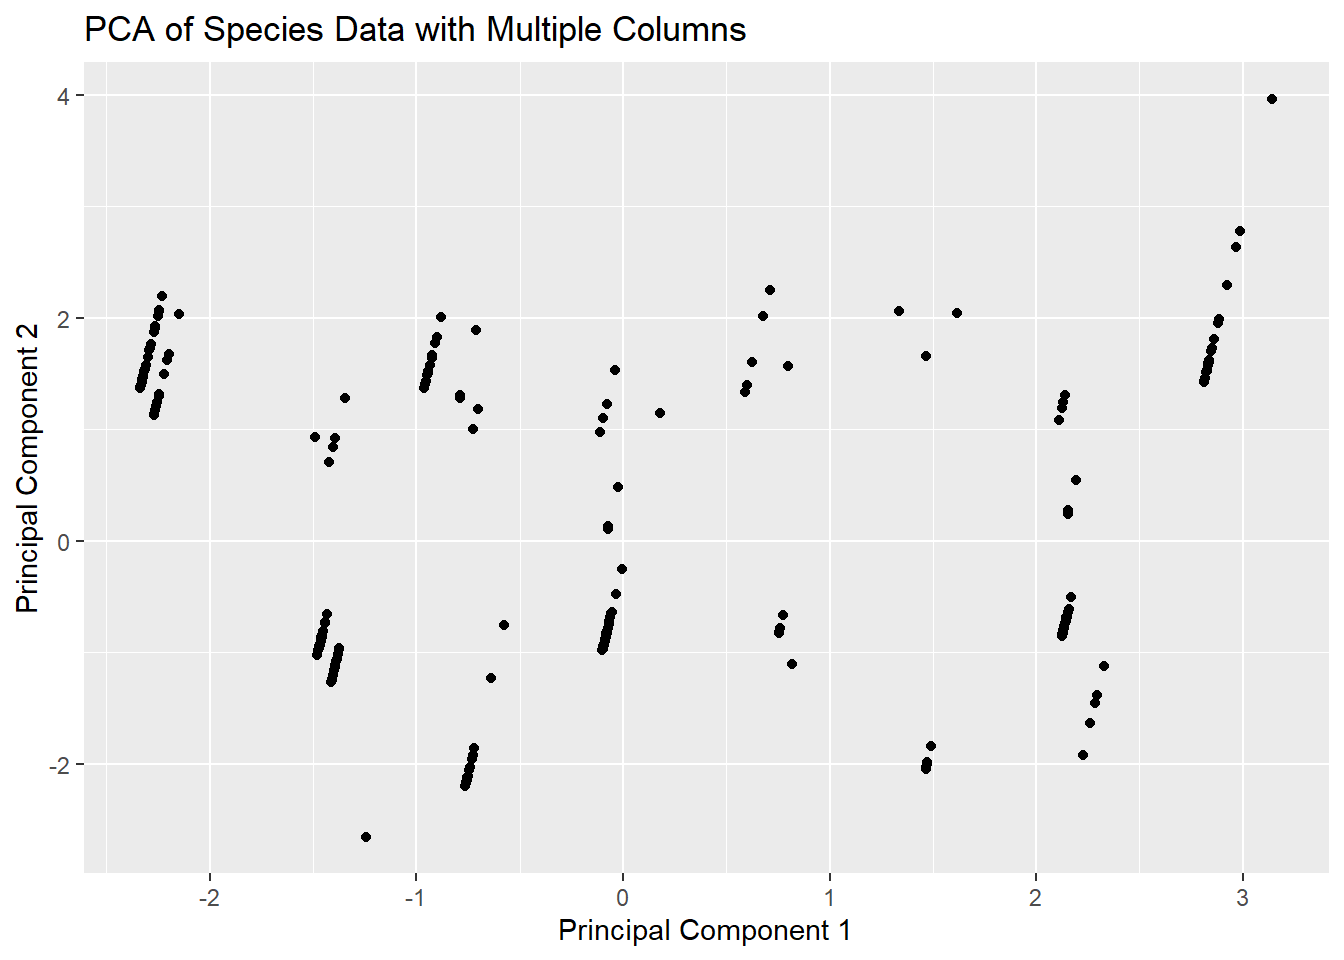
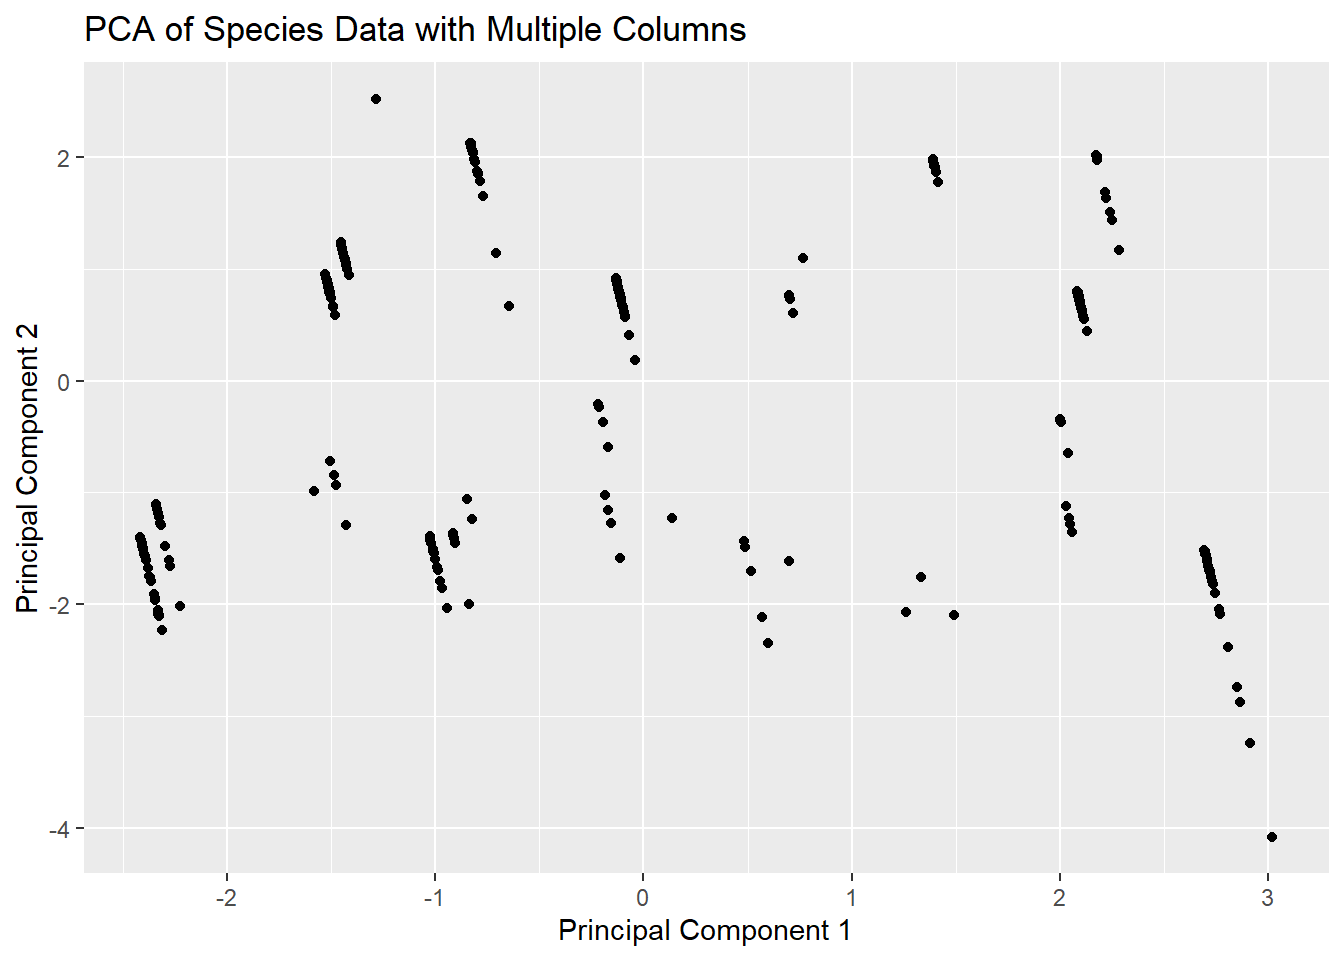
update obs after a column was added

diff --git a/docs/veg_data.html b/docs/veg_data.html
@@ -7,7 +7,7 @@
 <meta name="viewport" content="width=device-width, initial-scale=1.0, user-scalable=yes">
 
 
-<title>Project Overview – Woodpecker Niche Project</title>
+<title>Habitat Assessment – Woodpecker Niche Project</title>
 <style>
 code{white-space: pre-wrap;}
 span.smallcaps{font-variant: small-caps;}
@@ -89,7 +89,7 @@ ul.task-list li input[type="checkbox"] {
           <div class="collapse navbar-collapse" id="navbarCollapse">
             <ul class="navbar-nav navbar-nav-scroll me-auto">
   <li class="nav-item">
-    <a class="nav-link active" href="./index.html" aria-current="page"> 
+    <a class="nav-link" href="./index.html"> 
 <span class="menu-text">Home</span></a>
   </li>  
   <li class="nav-item">
@@ -101,7 +101,7 @@ ul.task-list li input[type="checkbox"] {
 <span class="menu-text">Woodpecker Observations</span></a>
   </li>  
   <li class="nav-item">
-    <a class="nav-link" href="./veg_data.html"> 
+    <a class="nav-link active" href="./veg_data.html" aria-current="page"> 
 <span class="menu-text">Habitat Assessment</span></a>
   </li>  
 </ul>
@@ -120,8 +120,7 @@ ul.task-list li input[type="checkbox"] {
     <h2 id="toc-title">On this page</h2>
    
   <ul>
-  <li><a href="#website-description" id="toc-website-description" class="nav-link active" data-scroll-target="#website-description">Website Description</a></li>
-  <li><a href="#project-description" id="toc-project-description" class="nav-link" data-scroll-target="#project-description">Project Description</a></li>
+  <li><a href="#snag-data" id="toc-snag-data" class="nav-link active" data-scroll-target="#snag-data">Snag data</a></li>
   </ul>
 </nav>
     </div>
@@ -130,7 +129,7 @@ ul.task-list li input[type="checkbox"] {
 
 <header id="title-block-header" class="quarto-title-block default">
 <div class="quarto-title">
-<h1 class="title">Project Overview</h1>
+<h1 class="title">Habitat Assessment</h1>
 </div>
 
 
@@ -147,22 +146,12 @@ ul.task-list li input[type="checkbox"] {
 </header>
 
 
-<section id="website-description" class="level2">
-<h2 class="anchored" data-anchor-id="website-description">Website Description</h2>
-<p>This website is meant to aid collaboration between multiple agencies and field technicians for the purposes of data collection and data interpretation. This website will coordinate surveys and highlight progress made on a weekly to bi-weekly update schedule.</p>
-</section>
-<section id="project-description" class="level2">
-<h2 class="anchored" data-anchor-id="project-description">Project Description</h2>
-<p>There are seven year-round resident woodpeckers in the southeastern United States. Like most woodpeckers, these species exhibit similar forms and exist in similar environments. Under competative exclusion, it is unlikely that these similar species should be able to coexist unless they utilize separate parts of the environment. Most previous research has focused on this ‘niche partitioning’ of their nesting habitat but little work has been done on how they partition foraging habitat.</p>
-<p>This work focuses on the changes that occur in woodpecker communities after prescribed fire among the seven coocurring species in southeastern pine forests.</p>
-<div class="quarto-figure quarto-figure-center">
-<figure class="figure">
-<p><img src="docs\data\woodpeckers.png" class="img-fluid figure-img"></p>
-<figcaption>all eight woodpeckers (yellow-bellied sapsuckers migrate and are absent during breeding season)</figcaption>
-</figure>
-</div>
-<p>This website was updated:</p>
-<p>April 09, 2025</p>
+<p>Habitat variables were obtained to explain the patterns in foraging behavior of each species as an alternative hypothesis. Habitat metrics also provide context for the study and makes it more translatable to other systems.</p>
+<p>We collected information on dead trees (snags), burn history, and habitat structure.</p>
+<section id="snag-data" class="level1">
+<h1>Snag data</h1>
+<p>There’s a lot of life after death when thinking about dead trees. In the early stages of death, dead trees may become hot-spots of food for woodpeckers as beetle larvae eat at the more susceptible wood. But after a few months, this resource decreases as beetles mature and consume most of the nutritious parts of the tree. Then, over many years the tree decomposes and become a nesting resource for cavity-nesting birds and other taxons.</p>
+<p>Here, we describe the quality and quantity of these snag resources. There are many ways to quantify a dead tree including decay class, diameter at breast height (DBH), amount of dead wood, amount of bark, and species. This diversity of snag characteristics within a plot my lead to more diversity within the plot. Thus, I will reduce this dimensionality in the data using multivariate statistics. This will result in a one or two metrics that can be used for further analysis.</p>
 
 
 </section>

diff --git a/docs/woodpecker_obs.html b/docs/woodpecker_obs.html
@@ -100,6 +100,10 @@ ul.task-list li input[type="checkbox"] {
     <a class="nav-link active" href="./woodpecker_obs.html" aria-current="page"> 
 <span class="menu-text">Woodpecker Observations</span></a>
   </li>  
+  <li class="nav-item">
+    <a class="nav-link" href="./veg_data.html"> 
+<span class="menu-text">Habitat Assessment</span></a>
+  </li>  
 </ul>
           </div> <!-- /navcollapse -->
             <div class="quarto-navbar-tools">
@@ -151,9 +155,10 @@ ul.task-list li input[type="checkbox"] {
 <p>Woodpecker observation data collected thus far. Data is arranged by plot, species, and month.</p>
 <div class="cell">
 <div class="cell-output-display">
-<div>
+<div class="quarto-figure quarto-figure-center">
 <figure class="figure">
-<p><img src="woodpecker_obs_files/figure-html/unnamed-chunk-5-1.png" class="img-fluid figure-img" width="672"></p>
+<p><img src="woodpecker_obs_files/figure-html/Figure 1-1.png" class="img-fluid figure-img" alt="Species composition plot figure" width="672"></p>
+<figcaption>Observations by species. numbers above the bar indicates the number of observations for each species.</figcaption>
 </figure>
 </div>
 </div>
@@ -210,7 +215,7 @@ Table: April observations by species and plot
 <h1>May Observations</h1>
 <div class="cell">
 <div class="cell-output cell-output-stdout">
-<pre><code>Plot(s) with no observations include:  2, 3, 6, 8, 9, 11, 14, 18, 19, 20, 21, 24</code></pre>
+<pre><code>Plot(s) with no observations include:  8, 9, 19, 20, 21</code></pre>
 </div>
 </div>
 <div class="cell">
@@ -221,11 +226,12 @@ Table: April observations by species and plot
 
 |Species |  1|  2|  3|  4|  5|  6|  7|  8|  9| 10| 11| 12| 13| 14| 15| 16| 17| 18| 19| 20| 21| 22| 23| 24| 25| 26| 27| 28| 29| 30| 31| 32|
 |:-------|--:|--:|--:|--:|--:|--:|--:|--:|--:|--:|--:|--:|--:|--:|--:|--:|--:|--:|--:|--:|--:|--:|--:|--:|--:|--:|--:|--:|--:|--:|--:|--:|
-|DOWO    |  0|  0|  0|  0|  0|  0|  0|  0|  0|  0|  0|  0|  0|  0|  0|  0|  0|  0|  0|  0|  0|  0|  1|  0|  0|  1|  1|  0|  1|  3|  0|  0|
-|PIWO    |  0|  0|  0|  0|  1|  0|  0|  0|  0|  0|  0|  0|  0|  0|  0|  0|  0|  0|  0|  0|  0|  0|  0|  0|  4|  0|  0|  0|  0|  0|  0|  0|
-|RBWO    |  0|  0|  0|  0|  0|  0|  0|  0|  0|  0|  0|  1|  0|  0|  0|  0|  1|  0|  0|  0|  0|  0|  0|  0|  0|  0|  0|  0|  1|  2|  0|  1|
-|RCWO    |  0|  0|  0|  0|  0|  0|  2|  0|  0|  1|  0|  1|  1|  0|  1|  0|  0|  0|  0|  0|  0|  2|  0|  0|  1|  0|  0|  2|  0|  0|  0|  2|
-|RHWO    |  1|  0|  0|  1|  0|  0|  0|  0|  0|  0|  0|  0|  0|  0|  1|  2|  0|  0|  0|  0|  0|  0|  0|  0|  2|  1|  0|  0|  0|  1|  2|  1|</code></pre>
+|DOWO    |  0|  0|  0|  0|  0|  0|  0|  0|  0|  0|  0|  0|  1|  0|  0|  0|  0|  0|  0|  0|  0|  0|  2|  0|  0|  1|  1|  0|  1|  3|  0|  0|
+|NOFL    |  0|  0|  0|  0|  0|  1|  0|  0|  0|  0|  0|  0|  0|  0|  0|  0|  0|  0|  0|  0|  0|  0|  0|  0|  0|  0|  0|  0|  0|  0|  0|  0|
+|PIWO    |  0|  0|  1|  0|  1|  1|  0|  0|  0|  0|  0|  0|  0|  0|  0|  0|  0|  1|  0|  0|  0|  0|  0|  0|  4|  0|  0|  0|  0|  0|  0|  0|
+|RBWO    |  0|  1|  1|  0|  1|  2|  0|  0|  0|  0|  0|  2|  1|  0|  0|  0|  1|  0|  0|  0|  0|  1|  0|  1|  0|  0|  0|  0|  1|  2|  0|  1|
+|RCWO    |  0|  0|  1|  0|  0|  1|  2|  0|  0|  1|  2|  1|  2|  2|  1|  0|  0|  0|  0|  0|  0|  2|  1|  0|  1|  0|  0|  2|  0|  0|  0|  2|
+|RHWO    |  1|  1|  0|  1|  1|  1|  0|  0|  0|  0|  0|  1|  0|  0|  1|  2|  0|  0|  0|  0|  0|  0|  0|  1|  2|  1|  0|  0|  0|  1|  2|  1|</code></pre>
 </div>
 </div>
 </section>

diff --git a/docs/point_counts.html b/docs/point_counts.html
@@ -100,6 +100,10 @@ ul.task-list li input[type="checkbox"] {
     <a class="nav-link" href="./woodpecker_obs.html"> 
 <span class="menu-text">Woodpecker Observations</span></a>
   </li>  
+  <li class="nav-item">
+    <a class="nav-link" href="./veg_data.html"> 
+<span class="menu-text">Habitat Assessment</span></a>
+  </li>  
 </ul>
           </div> <!-- /navcollapse -->
             <div class="quarto-navbar-tools">
